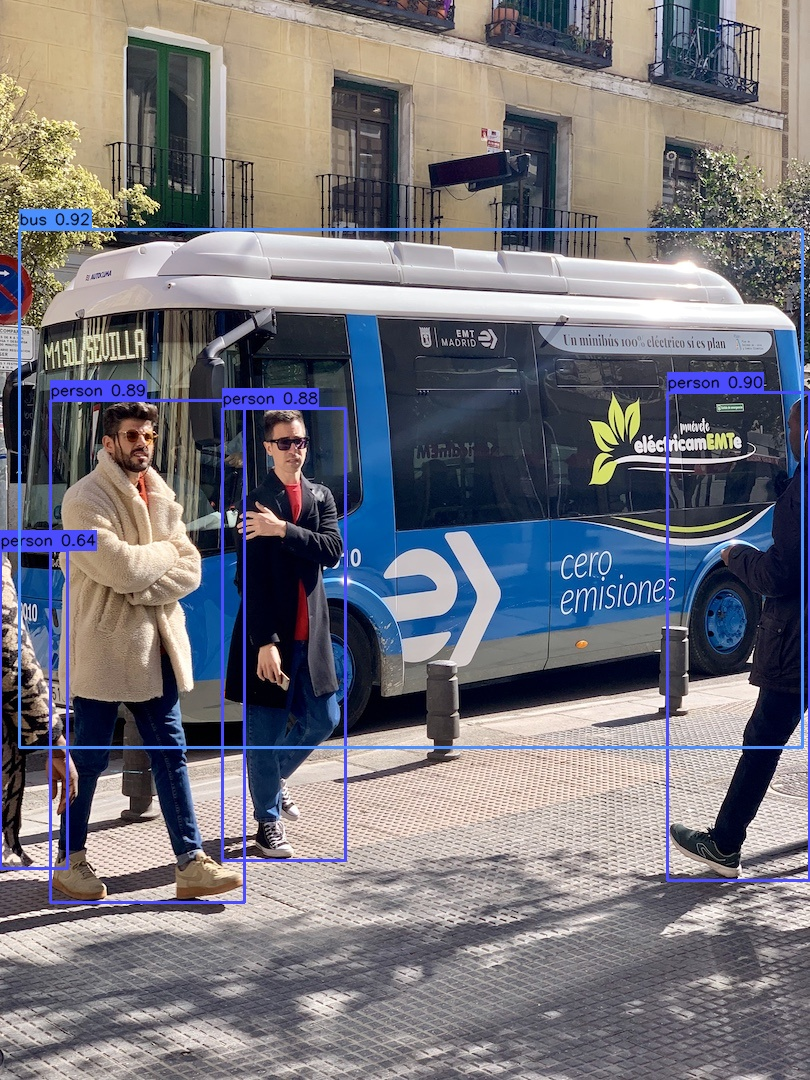
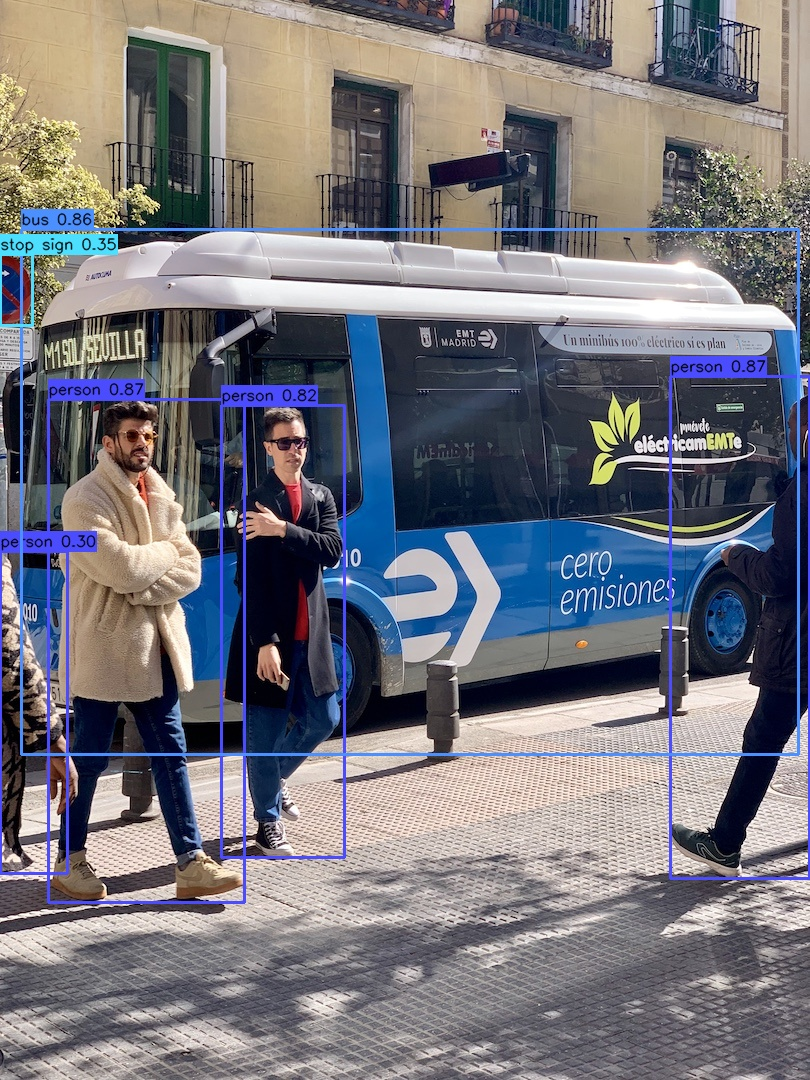
实现fp16推理

Changed region(s): [[0.0, 0.1833, 1.0, 0.825]]

diff --git a/utils/ov_run.py b/utils/ov_run.py
@@ -75,10 +75,10 @@ class OVInference(Inference):
             ppp = PrePostProcessor(model)
             # 设定图片数据类型，形状，通道排布为RGB
             ppp.input(0).tensor().set_color_format(ColorFormat.RGB) \
-                .set_element_type(Type.f32).set_layout(Layout("NCHW"))   # BGR -> RGB Type.u8 -> Type.f32  NHWC -> NCHW
+                .set_element_type(Type.u8).set_layout(Layout("NCHW"))
             # 预处理: 改变类型,转换为RGB,减去均值,除以标准差(均值和标准差包含了归一化)
             # ppp.input(0).preprocess().convert_color(ColorFormat.RGB).convert_element_type(Type.f32).mean(mean).scale(std)
-            ppp.input(0).preprocess().scale(std)
+            ppp.input(0).preprocess().convert_element_type(Type.f32).scale(std)
             # 指定模型输入形状
             ppp.input(0).model().set_layout(Layout("NCHW"))
             # 指定模型输出类型
@@ -93,6 +93,8 @@ class OVInference(Inference):
 
     def infer(self, images: np.ndarray) -> np.ndarray:
         """推理单张图片
+        fp16格式的模型的输入和输出也为fp32
+
         Args:
             images (np.ndarray): 图片 [B, C, H, W]
         Returns:

diff --git a/utils/inference.py b/utils/inference.py
@@ -291,8 +291,7 @@ class Inference(ABC):
         # 2. 推理
         t2 = time.time()
         # numpy float16 速度慢 https://stackoverflow.com/questions/56697332/float16-is-much-slower-than-float32-and-float64-in-numpy
-        # 传递参数时转变类型比传递后再转换要快
-        results = self.infer(input_array.astype(np.float16) if self.fp16 else input_array).astype(np.float32)
+        results = self.infer(input_array).astype(np.float32)
 
         # 3. NMS
         t3 = time.time()
@@ -361,7 +360,7 @@ class Inference(ABC):
 
             # 4. 推理
             t2 = time.time()
-            results = self.infer(input_array.astype(np.float16) if self.fp16 else input_array).astype(np.float32)
+            results = self.infer(input_array).astype(np.float32)
 
             # 5. NMS
             t3 = time.time()

diff --git a/utils/ort_run.py b/utils/ort_run.py
@@ -113,12 +113,14 @@ class OrtInference(Inference):
 
     def infer(self, images: np.ndarray) -> np.ndarray:
         """推理单张图片
+        fp16格式的模型的输入和输出为fp16
+
         Args:
             images (np.ndarray): 图片 [B, C, H, W]
         Returns:
-            np.ndarray: boxes [B, 25200, 85]
+            np.ndarray: boxes [B, 84, 8400]
         """
 
         # 推理
-        boxes: list[np.ndarray] = self.model.run(None, {self.inputs[0].name: images})    # 返回值为list
+        boxes: list[np.ndarray] = self.model.run(None, {self.inputs[0].name: images.astype(np.float16) if self.fp16 else images})
         return boxes[0]

diff --git a/utils/functions.py b/utils/functions.py
@@ -83,10 +83,11 @@ def transform(image: np.ndarray, openvino_preprocess: bool = False) -> np.ndarra
     Returns:
         np.ndarray: 经过预处理的图片
     """
-    image = image.transpose(2, 0, 1).astype(np.float32)        # [H, W, C] -> [C, H, W]
+    image = image.transpose(2, 0, 1)        # [H, W, C] -> [C, H, W]
 
     # openvino预处理会自动处理scale
     if not openvino_preprocess:
+        image = image.astype(np.float32)
         image /= 255.0                      # 归一化
 
     return np.expand_dims(image, 0)  # [C, H, W] -> [B, C, H, W]

diff --git a/trt_infer.py b/trt_infer.py
@@ -3,7 +3,7 @@ import cv2
 
 
 config = {
-    "model_path":           r"./weights/yolov8s.engine",
+    "model_path":           r"./weights/yolov8n.engine",
     "yaml_path":            r"./weights/yolov8.yaml",
     "confidence_threshold": 0.25,   # 只有得分大于置信度的预测框会被保留下来,越大越严格
     "score_threshold":      0.2,    # opencv nms分类得分阈值,越大越严格

diff --git a/ov_infer.py b/ov_infer.py
@@ -3,7 +3,7 @@ import cv2
 
 
 config = {
-    "model_path":           r"./weights/yolov8s_openvino_model/yolov8s.xml",
+    "model_path":           r"./weights/yolov8n_openvino_model/yolov8n.xml",
     "mode":                 r"cpu",
     "yaml_path":            r"./weights/yolov8.yaml",
     "confidence_threshold": 0.25,   # 只有得分大于置信度的预测框会被保留下来,越大越严格

diff --git a/ort_infer.py b/ort_infer.py
@@ -3,7 +3,7 @@ import cv2
 
 
 config = {
-    "model_path":           r"./weights/yolov8s.onnx",
+    "model_path":           r"./weights/yolov8n.onnx",
     "mode":                 r"cuda", # tensorrt cuda cpu
     "yaml_path":            r"./weights/yolov8.yaml",
     "confidence_threshold": 0.25,   # 只有得分大于置信度的预测框会被保留下来,越大越严格

diff --git a/utils/trt_run.py b/utils/trt_run.py
@@ -155,6 +155,9 @@ class TensorRTInfer(Inference):
     def infer(self, images: np.ndarray) -> np.ndarray:
         """ async infer
         Execute inference on a batch of images.
+
+        fp16格式的模型的输入和输出也为fp32
+
         :param images: A numpy array holding the image batch.
         :return numpy arrays.
         """
